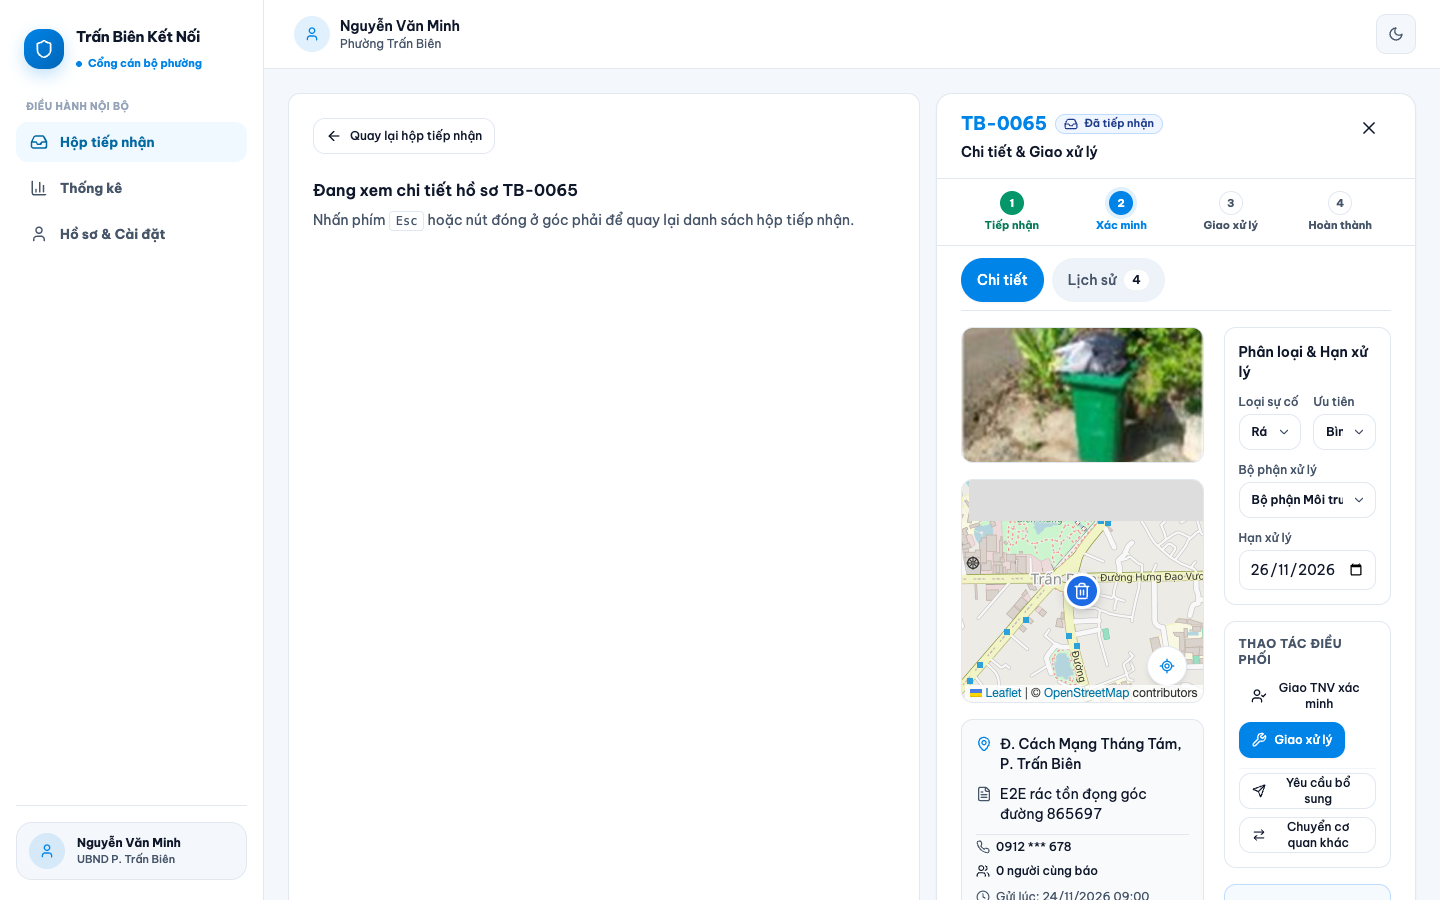
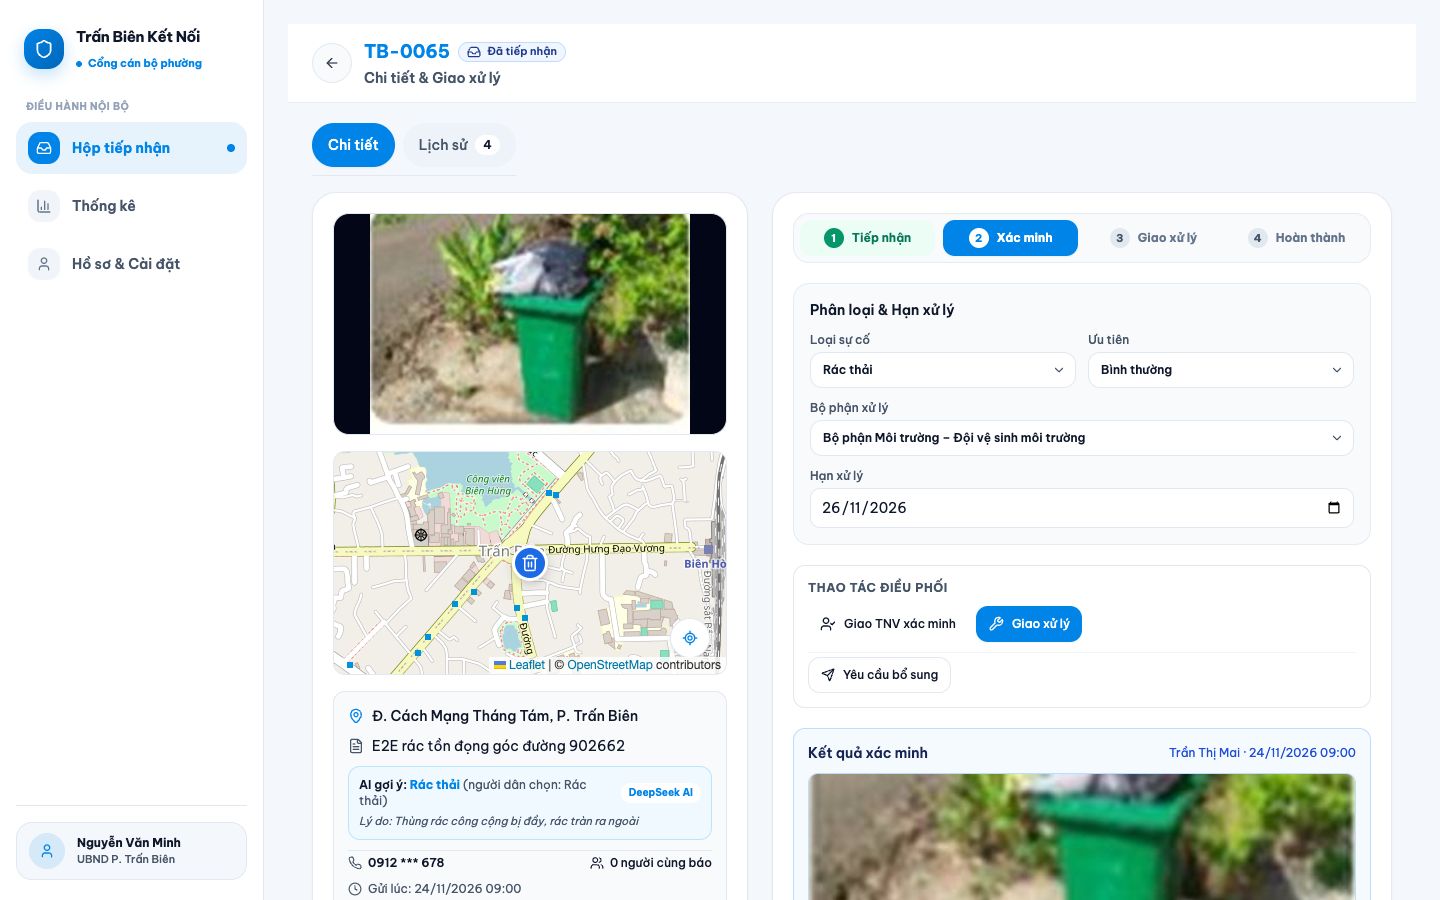
Fix: AI DeepSeek chạy thật (tắt chế độ suy nghĩ), giữ gợi ý qua bước đăng nhập
- deepseek.ts: gửi thinking: {type: 'disabled'}. deepseek-flash bật suy nghĩ mặc định nên dồn hết
  max_tokens vào reasoning và trả content rỗng (finish_reason=length) → parser báo "không có JSON".
  Thử thật 4 ảnh mẫu: đèn đường 60%, rác thải 95%, mặt đường 98%, ảnh ngập nước quá mờ → "khong_ro".
- C04: lưu gợi ý AI vào bản nháp (aiSuggestion, aiPhotoKey) nên sau khi chuyển sang đăng nhập rồi quay
  lại, hồ sơ vẫn gửi kèm gợi ý và không gọi AI lần nữa (trước đó hồ sơ bị mất gợi ý).
- AiSuggestionBanner: nhãn nguồn xuống hàng dưới để không ép lý do thành cột hẹp ở 390px.
- vitest cố định VITE_DATA_SOURCE=local (trước đó đọc app/.env của cloud nên test giao diện chạy chế độ API).
- e2e: khi AI_PROVIDER=deepseek kiểm tra khung gợi ý ở C04 và gợi ý đã lưu ở A02.
- Ảnh chụp e2e chụp lại theo UI mới (cloud + DeepSeek); bỏ ảnh luồng gửi ẩn danh cũ.

diff --git a/app/src/components/citizen/AiSuggestionBanner.tsx b/app/src/components/citizen/AiSuggestionBanner.tsx
@@ -77,26 +77,24 @@ export function AiSuggestionBanner({
         data-testid="ai-suggestion-banner"
         className="flex flex-col gap-2.5 rounded-2xl border border-sky-200 bg-sky-50 px-3.5 py-3 text-sm dark:border-sky-900 dark:bg-sky-950/40"
       >
-        <div className="flex items-start justify-between gap-2">
-          <div className="flex items-start gap-2 text-[var(--color-text)]">
-            <Sparkles className="mt-0.5 h-4 w-4 shrink-0 text-[#0084E8]" aria-hidden="true" />
-            <p>
-              <span className="font-semibold">AI gợi ý: </span>
-              <span className="font-extrabold text-[#0084E8]">{label}</span>
-              {suggestion?.reason && (
-                <span className="text-[var(--color-text-muted)]"> – {suggestion.reason}</span>
-              )}
-            </p>
-          </div>
+        <div className="flex items-start gap-2 text-[var(--color-text)]">
+          <Sparkles className="mt-0.5 h-4 w-4 shrink-0 text-[#0084E8]" aria-hidden="true" />
+          <p>
+            <span className="font-semibold">AI gợi ý: </span>
+            <span className="font-extrabold text-[#0084E8]">{label}</span>
+            {suggestion?.reason && (
+              <span className="text-[var(--color-text-muted)]"> – {suggestion.reason}</span>
+            )}
+          </p>
+        </div>
+        <div className="flex flex-wrap items-center justify-between gap-2">
           <span
-            className={`shrink-0 rounded-full px-2 py-0.5 text-[11px] font-bold ${
+            className={`rounded-full px-2 py-0.5 text-[11px] font-bold ${
               isDeepSeek ? 'bg-[#0084E8] text-white' : 'bg-white text-[#0084E8] dark:bg-slate-900'
             }`}
           >
             {isDeepSeek ? 'Gợi ý bởi AI – vui lòng kiểm tra lại' : 'Gợi ý mô phỏng'}
           </span>
-        </div>
-        <div className="flex justify-end">
           {isSelected ? (
             <span className="inline-flex items-center gap-1 text-xs font-bold text-emerald-700 dark:text-emerald-400">
               <Check className="h-3.5 w-3.5" aria-hidden="true" />

diff --git a/app/tests/e2e-api/full-flow.spec.ts b/app/tests/e2e-api/full-flow.spec.ts
@@ -13,6 +13,8 @@ const TNV_EMAIL = 'tnv.mai@tranbien.gov.vn';
 const TNV_NAME = 'Trần Thị Mai';
 const CITIZEN_PHONE = '0912345678';
 const MOBILE = { width: 390, height: 844 };
+// Nạp từ app/.env(.local) bởi playwright.api.config.ts; deepseek = gọi DeepSeek thật.
+const AI_IS_DEEPSEEK = process.env.AI_PROVIDER === 'deepseek';
 const DESKTOP = { width: 1440, height: 900 };
 
 function staffPassword(): string {
@@ -80,6 +82,16 @@ async function submitReport(
   await visibleButton(page, 'Tiếp tục').click();
   await page.waitForURL('**/bao-su-co/xac-nhan**');
 
+  // Bước 1: khung gợi ý AI (B1). Với DeepSeek thật, ảnh rác thải mẫu phải được nhận đúng.
+  if (AI_IS_DEEPSEEK) {
+    const banner = page.getByTestId('ai-suggestion-banner').locator('visible=true').first();
+    await expect(banner).toBeVisible({ timeout: 30_000 });
+    await expect(banner).toContainText('Rác thải');
+    await expect(banner).toContainText('Gợi ý bởi AI – vui lòng kiểm tra lại');
+    await shot(page, `${options.shotPrefix}-ai-goi-y`);
+    await banner.getByRole('button', { name: 'Dùng gợi ý' }).click();
+    await expect(banner).toContainText('Đang chọn');
+  }
   // Bước 1: loại phản ánh
   await visibleButton(page, 'Rác thải').click();
   await visibleButton(page, 'Tiếp tục chọn vị trí').click();
@@ -227,6 +239,11 @@ test.describe.serial('Luồng đầy đủ ở chế độ API (Supabase local h
     // SĐT chỉ hiển thị dạng che
     await expect(visibleText(page, '0912 *** 678')).toBeVisible();
     await expect(page.locator('body')).not.toContainText(CITIZEN_PHONE);
+    if (AI_IS_DEEPSEEK) {
+      const ai = page.getByTestId('officer-ai-suggestion').locator('visible=true').first();
+      await expect(ai).toContainText('Rác thải');
+      await expect(ai).toContainText('DeepSeek AI');
+    }
     await shot(page, '03b-can-bo-chi-tiet-moi');
     await visibleButton(page, /^Tiếp nhận$/).click();
     await expect(page.getByText(`Đã tiếp nhận hồ sơ ${phoneReport.code}`)).toBeVisible();

diff --git a/app/src/screens/citizen/C04Confirm.tsx b/app/src/screens/citizen/C04Confirm.tsx
@@ -172,7 +172,9 @@ export function C04Confirm() {
   );
   const [selectedCategory, setSelectedCategory] = useState<Category>(draft.category ?? 'mat_duong');
   // AC-C02-5: gợi ý AI chỉ để tham khảo, không bao giờ tự chọn loại thay người dân.
-  const [aiSuggestion, setAiSuggestion] = useState<AiSuggestionData | null>(null);
+  const aiPhotoKey = aiPhoto ? `${aiPhoto.length}:${aiPhoto.slice(0, 64)}` : undefined;
+  const savedAi = draft.aiPhotoKey === aiPhotoKey ? (draft.aiSuggestion ?? null) : null;
+  const [aiSuggestion, setAiSuggestion] = useState<AiSuggestionData | null>(savedAi);
   const [aiLoading, setAiLoading] = useState<boolean>(false);
   const [aiError, setAiError] = useState<boolean>(false);
   useEffect(() => {
@@ -180,6 +182,11 @@ export function C04Confirm() {
       setAiSuggestion(null);
       setAiLoading(false);
       setAiError(false);
+      return;
+    }
+    // Đã có gợi ý cho đúng ảnh này (ví dụ quay lại sau bước đăng nhập): không gọi AI lần nữa.
+    if (draft.aiPhotoKey === aiPhotoKey && draft.aiSuggestion) {
+      setAiSuggestion(draft.aiSuggestion);
       return;
     }
     let cancelled = false;
@@ -190,6 +197,7 @@ export function C04Confirm() {
         if (cancelled) return;
         setAiSuggestion(res);
         setAiLoading(false);
+        dispatch({ type: 'SET_DRAFT', payload: { aiSuggestion: res, aiPhotoKey } });
       })
       .catch(() => {
         if (cancelled) return;
@@ -200,7 +208,9 @@ export function C04Confirm() {
     return () => {
       cancelled = true;
     };
-  }, [aiPhoto, ds]);
+    // Chỉ gọi lại khi đổi ảnh.
+    // eslint-disable-next-line react-hooks/exhaustive-deps
+  }, [aiPhotoKey, ds]);
   const [activePhotoIndex, setActivePhotoIndex] = useState<number>(0);
   const [isAddressFocused, setIsAddressFocused] = useState<boolean>(false);
   const [osmSuggestions, setOsmSuggestions] = useState<

diff --git a/app/tests/unit/ai-suggester.test.ts b/app/tests/unit/ai-suggester.test.ts
@@ -160,6 +160,11 @@ Hy vọng giúp ích được bạn.`;
       expect(res.confidence).toBe(0.92);
       expect(res.provider).toBe('deepseek');
       expect(res.reason).toBe('Ổ gà lớn giữa đường gây nguy hiểm');
+      // Chế độ suy nghĩ phải tắt, nếu không deepseek-flash dồn hết max_tokens vào suy nghĩ và trả content rỗng.
+      const sentBody = JSON.parse(
+        (vi.mocked(globalThis.fetch).mock.calls[0]?.[1] as RequestInit).body as string
+      );
+      expect(sentBody.thinking).toEqual({ type: 'disabled' });
     });
 
     it('2. Xử lý timeout và trả về fallback an toàn không ném 500', async () => {

diff --git a/app/server/services/ai/deepseek.ts b/app/server/services/ai/deepseek.ts
@@ -96,6 +96,10 @@ export class DeepSeekSuggester implements CategorySuggester {
               ],
             },
           ],
+          // deepseek-flash bật chế độ suy nghĩ mặc định: token dồn hết vào reasoning_content, content rỗng
+          // (finish_reason=length). Phân loại ảnh không cần suy nghĩ dài nên tắt đi
+          // (https://api-docs.deepseek.com/guides/thinking_mode); temperature chỉ có tác dụng khi tắt.
+          thinking: { type: 'disabled' },
           max_tokens: 150,
           temperature: 0.1,
         }),

diff --git a/app/vite.config.ts b/app/vite.config.ts
@@ -80,6 +80,8 @@ export default defineConfig({
     testTimeout: 15000,
     hookTimeout: 30000,
     setupFiles: ['./tests/setup.ts'],
+    // Test giao diện luôn chạy chế độ local (mô phỏng), không phụ thuộc app/.env của máy (có thể là api/cloud).
+    env: { VITE_DATA_SOURCE: 'local' },
     include: ['tests/**/*.{test,spec}.{ts,tsx}'],
     exclude: ['tests/e2e/**/*', 'tests/e2e-api/**/*', 'node_modules/**/*'],
   },

diff --git a/app/src/domain/types.ts b/app/src/domain/types.ts
@@ -191,4 +191,8 @@ export interface ReportDraft {
   category?: Category;
   title?: string;
   description?: string;
+  /** Gợi ý AI của ảnh đầu tiên; giữ qua bước đăng nhập để hồ sơ gửi đi vẫn kèm gợi ý (B1). */
+  aiSuggestion?: AiSuggestionData;
+  /** Khoá nhận diện ảnh đã gửi cho AI (độ dài + 64 ký tự đầu), đổi ảnh thì gọi lại AI. */
+  aiPhotoKey?: string;
 }

diff --git a/docs/review/ai/ket-qua-thu.md b/docs/review/ai/ket-qua-thu.md
@@ -1,17 +1,17 @@
 # Kết quả thử nghiệm AI gợi ý loại sự cố từ ảnh
 
-- **Thời gian chạy**: `2026-11-25T10:44:41.887Z`
-- **Nhà cung cấp**: `mock`
-- **Mô hình**: `N/A`
+- **Thời gian chạy**: `2026-11-25T13:10:41.711Z`
+- **Nhà cung cấp**: `deepseek`
+- **Mô hình**: `deepseek-flash`
 
 ## Bảng đối soát kết quả
 
 | Đường dẫn ảnh | Dung lượng | Nhà cung cấp | Loại gợi ý | Độ tin cậy | Lý do phân tích | Độ trễ |
 |---------------|------------|--------------|------------|------------|-----------------|--------|
-| `public/demo-photos/den_duong/1.jpg` | 31 KB | `mock` | **den_duong** | 95.0% | Phát hiện sự cố hệ thống chiếu sáng đô thị | 0ms |
-| `public/demo-photos/ngap_nuoc/1.jpg` | 34 KB | `mock` | **ngap_nuoc** | 92.0% | Phát hiện tình trạng ngập úng, nước đọng mặt đường | 0ms |
-| `public/demo-photos/rac_thai/1.jpg` | 34 KB | `mock` | **rac_thai** | 94.0% | Phát hiện điểm tập kết rác thải tự phát hoặc bừa bãi | 0ms |
-| `public/demo-photos/mat_duong/1.jpg` | 35 KB | `mock` | **mat_duong** | 93.0% | Phát hiện ổ gà, nứt vỡ hoặc sụt lún mặt đường | 0ms |
+| `public/demo-photos/den_duong/1.jpg` | 9 KB | `deepseek` | **den_duong** | 60.0% | Ảnh mờ nhưng có cột đèn và nguồn sáng mạnh bất thường, nghi đèn chiếu sáng bị chói/hỏng | 1403ms |
+| `public/demo-photos/ngap_nuoc/1.jpg` | 9 KB | `deepseek` | **khong_ro** | 90.0% | Ảnh quá mờ, không đủ chi tiết để xác định loại sự cố đô thị. | 1040ms |
+| `public/demo-photos/rac_thai/1.jpg` | 15 KB | `deepseek` | **rac_thai** | 95.0% | Thùng rác công cộng bị đầy, rác tràn ra ngoài | 984ms |
+| `public/demo-photos/mat_duong/1.jpg` | 50 KB | `deepseek` | **mat_duong** | 98.0% | Ổ gà lớn trên mặt đường nhựa, hư hỏng rõ rệt | 1191ms |
 
 ## Đánh giá
 1. **Độ chính xác**: Các loại sự cố trong bộ ảnh chuẩn (đèn đường, ngập nước, rác thải, mặt đường) được gợi ý khớp với nội dung hiện trường.
